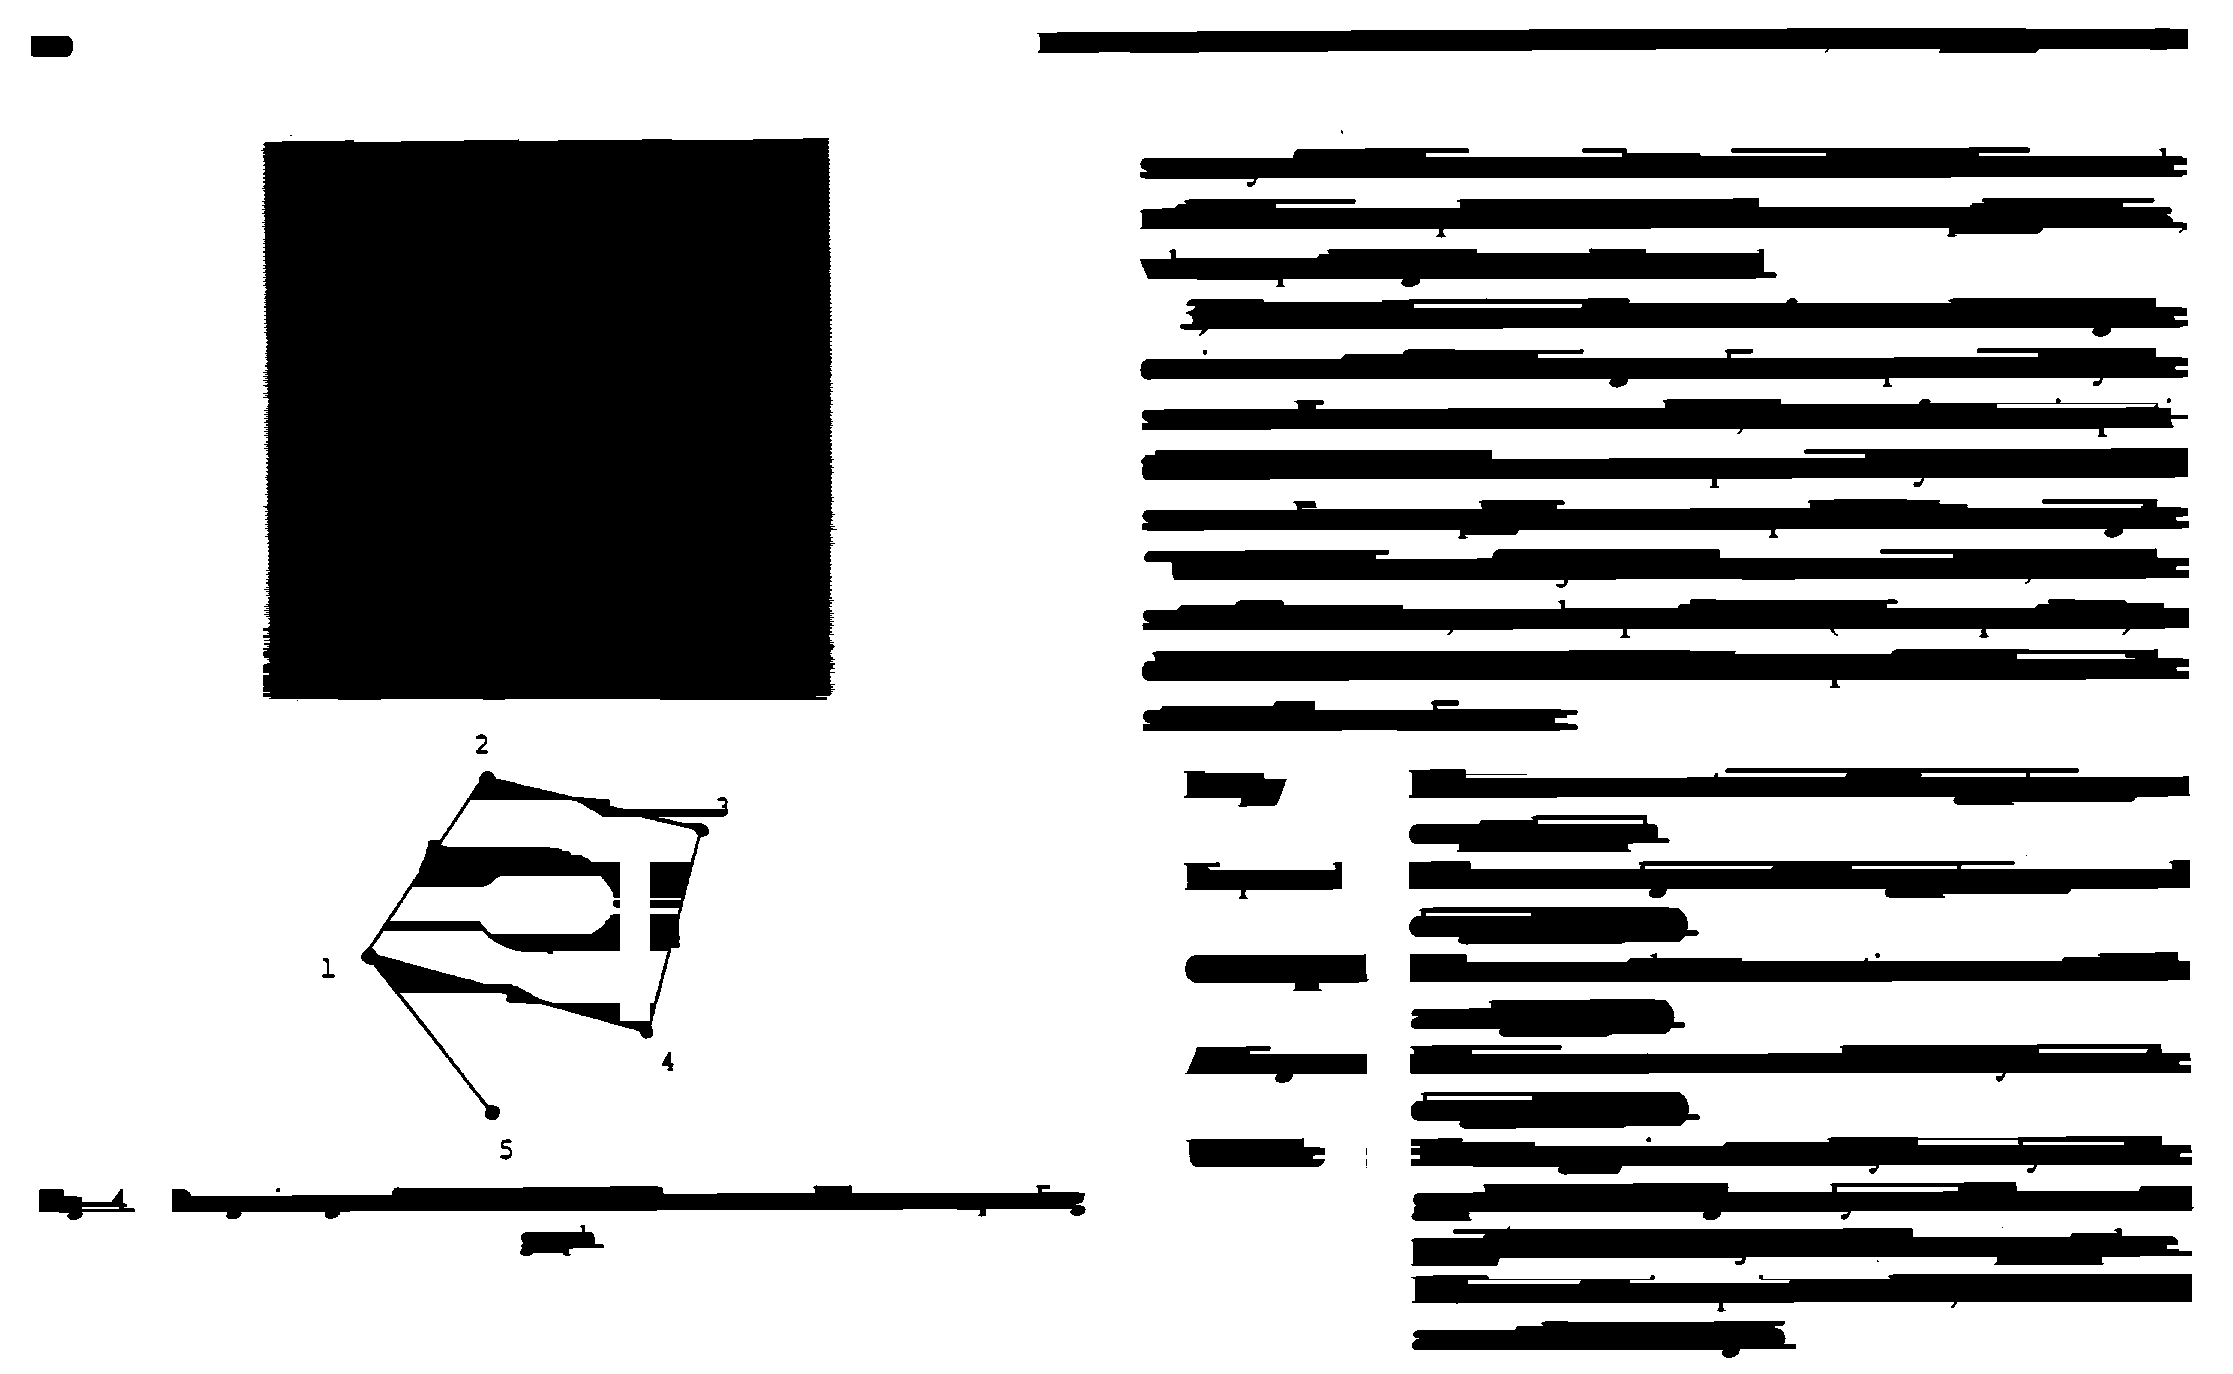
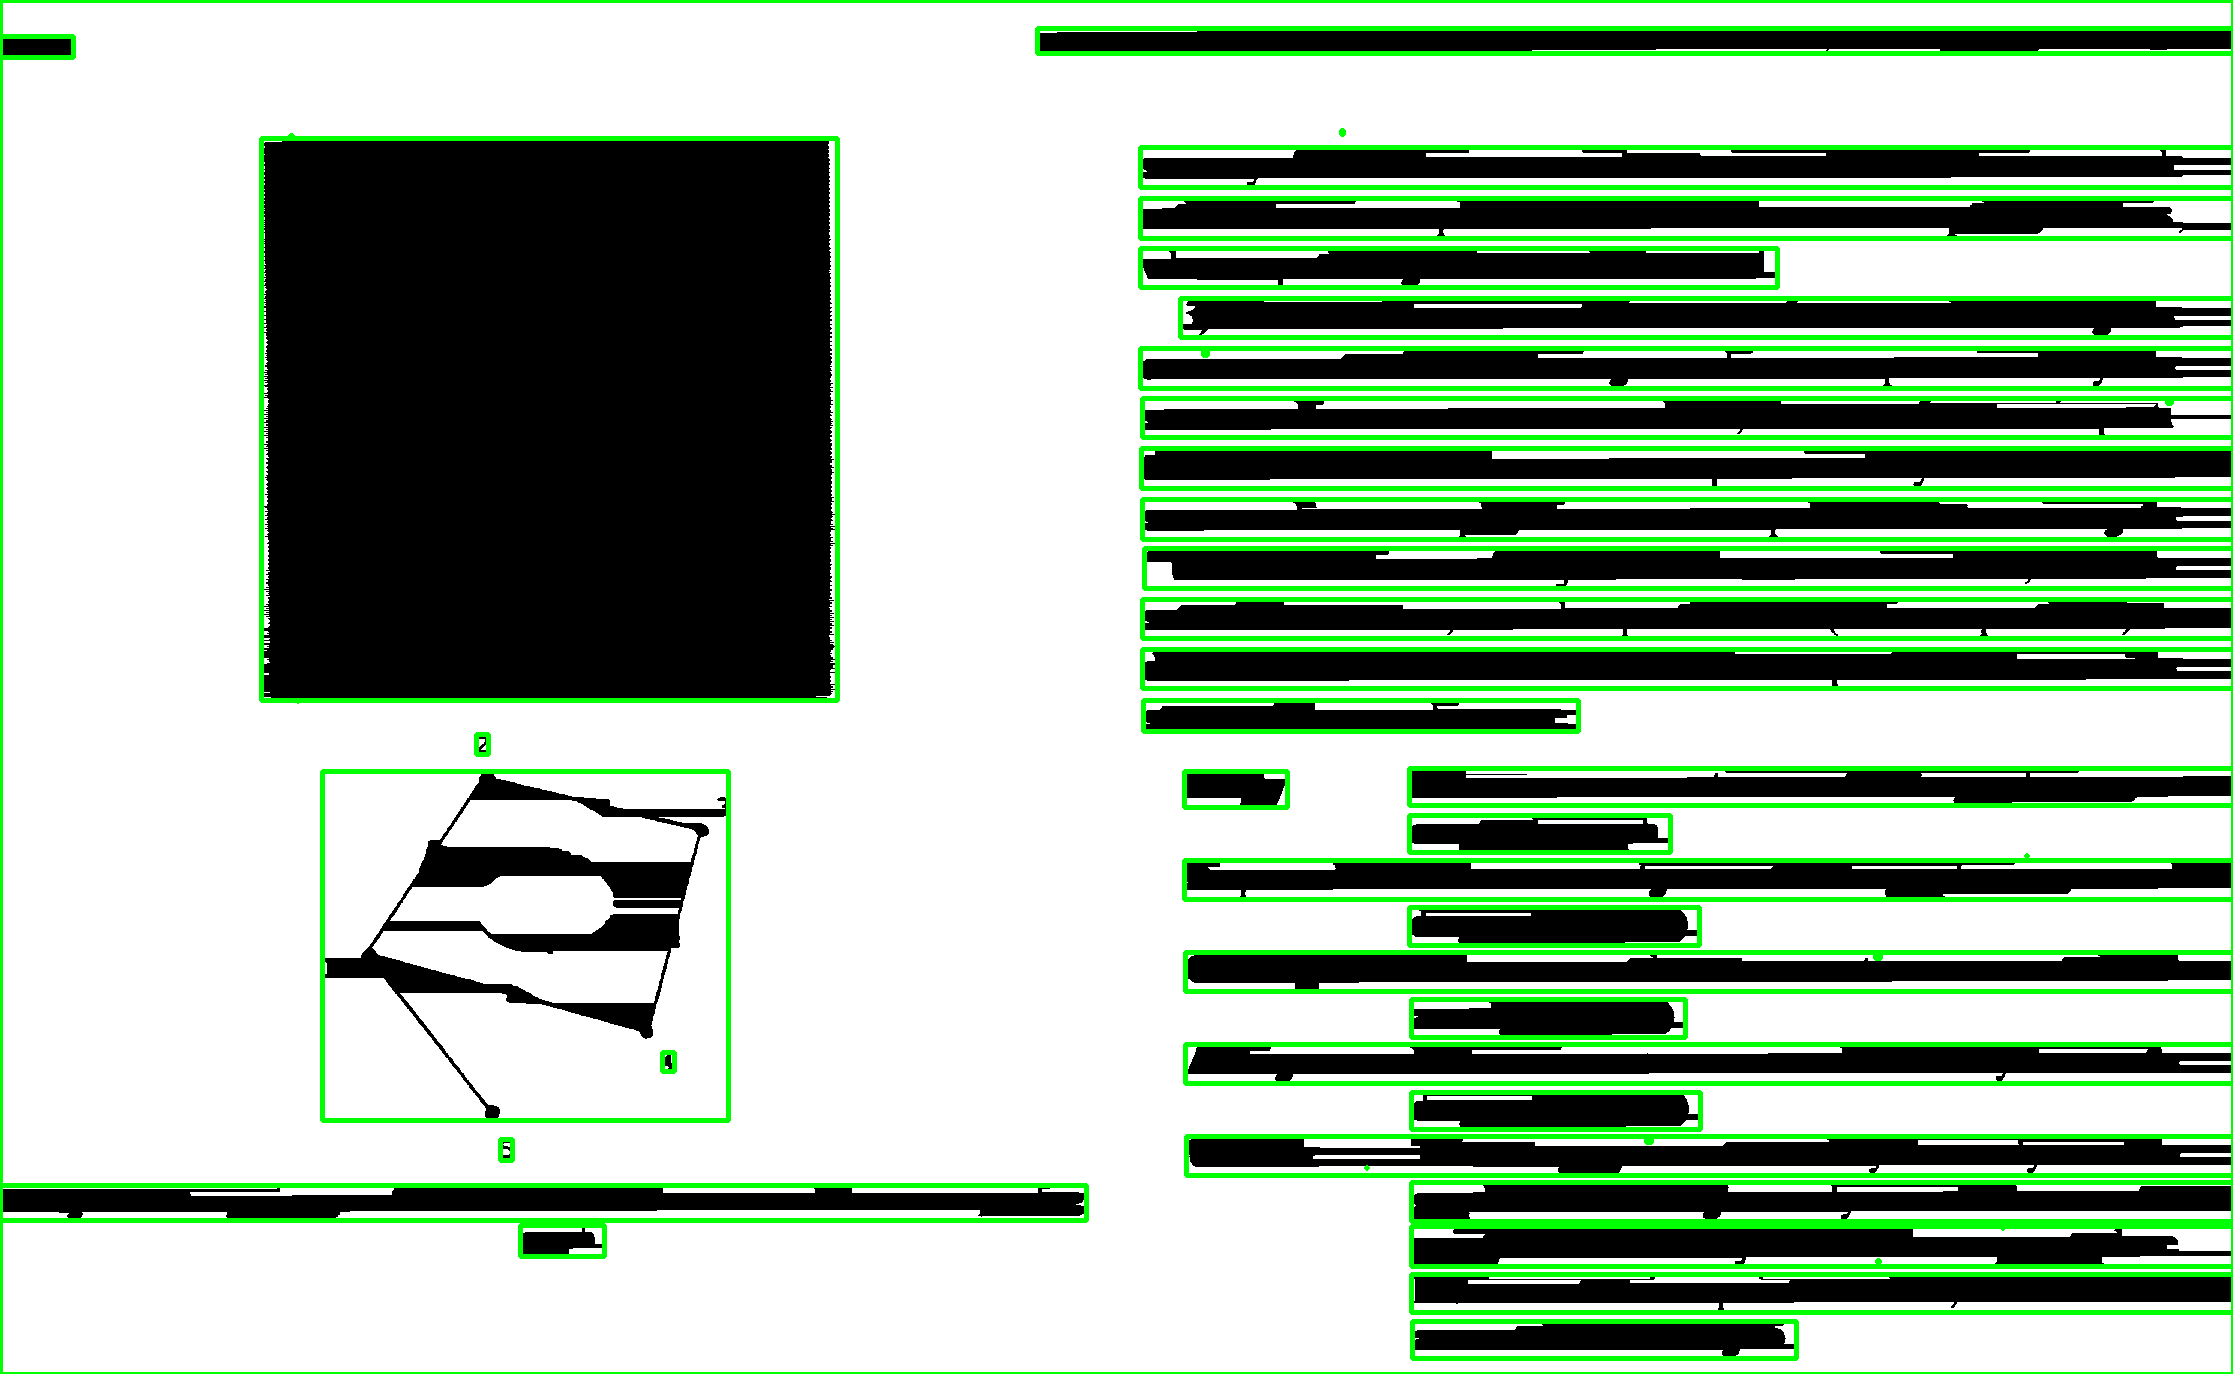
Drawing rectangle on image

diff --git a/lab03/segtext.py b/lab03/segtext.py
@@ -1,4 +1,5 @@
 from skimage.morphology import binary_opening, binary_closing
+import config as cfg
 import cv2
 import numpy as np
 import sys
@@ -26,30 +27,40 @@ def _imshow(imgs):
 
 
 def _preprocess(img):
-    row = binary_closing(img, selem=np.ones((1,100)))
-    column = binary_closing(img, selem=np.ones((200,1)))
+    row = binary_closing(img, selem=cfg.ROW_CLOSING_SELEM)
+    column = binary_closing(img, selem=cfg.ROW_CLOSING_SELEM)
 
     img = row & column
     return img
 
 
 def _connected_components(img):
-    nlabels, labels, stats, centroids = cv2.connectedComponentsWithStats(_bin2img(img), 4, cv2.CV_32S)
-    return nlabels, stats
+    nlabels, labels, stats, centroids = cv2.connectedComponentsWithStats(255*img.astype(np.uint8), 4, cv2.CV_32S)
+    return stats
 
+
+def _draw_rect(img, stats):
+    img = cv2.cvtColor(img, cv2.COLOR_GRAY2BGR)
+
+    for label in stats:
+        min_x, min_y, w, h, area = label
+        cv2.rectangle(img, (min_x, min_y), (min_x+w, min_y+h), (0, 255, 0), 3)
+
+    return img
 
 def main():
     # read image
     input_path, output_path = _get_args()
-    img = cv2.imread(input_path, cv2.IMREAD_GRAYSCALE)
-    img = _img2bin(img)
+    input_img = cv2.imread(input_path, cv2.IMREAD_GRAYSCALE)
+    img = _img2bin(input_img)
 
     # processing phase
-    out = _preprocess(img)
-    out = binary_closing(out, selem=np.ones((1,30)))
-    _connected_components(out)
+    img = _preprocess(img)
+    img = binary_closing(img, selem=cfg.POS_CLOSING_SELEM)
+    stats = _connected_components(img)
 
-    cv2.imwrite(output_path, _bin2img(out))
+    blobs_img = _draw_rect(_bin2img(img), stats)
+    cv2.imwrite(output_path, blobs_img)
     
 
 if __name__ == '__main__':

diff --git a/lab03/config.py b/lab03/config.py
@@ -1,0 +1,5 @@
+import numpy as np
+
+ROW_CLOSING_SELEM=np.ones((1, 100))
+COLUMN_CLOSING_SELEM=np.ones((200, 1))
+POS_CLOSING_SELEM=np.ones((1,30))
